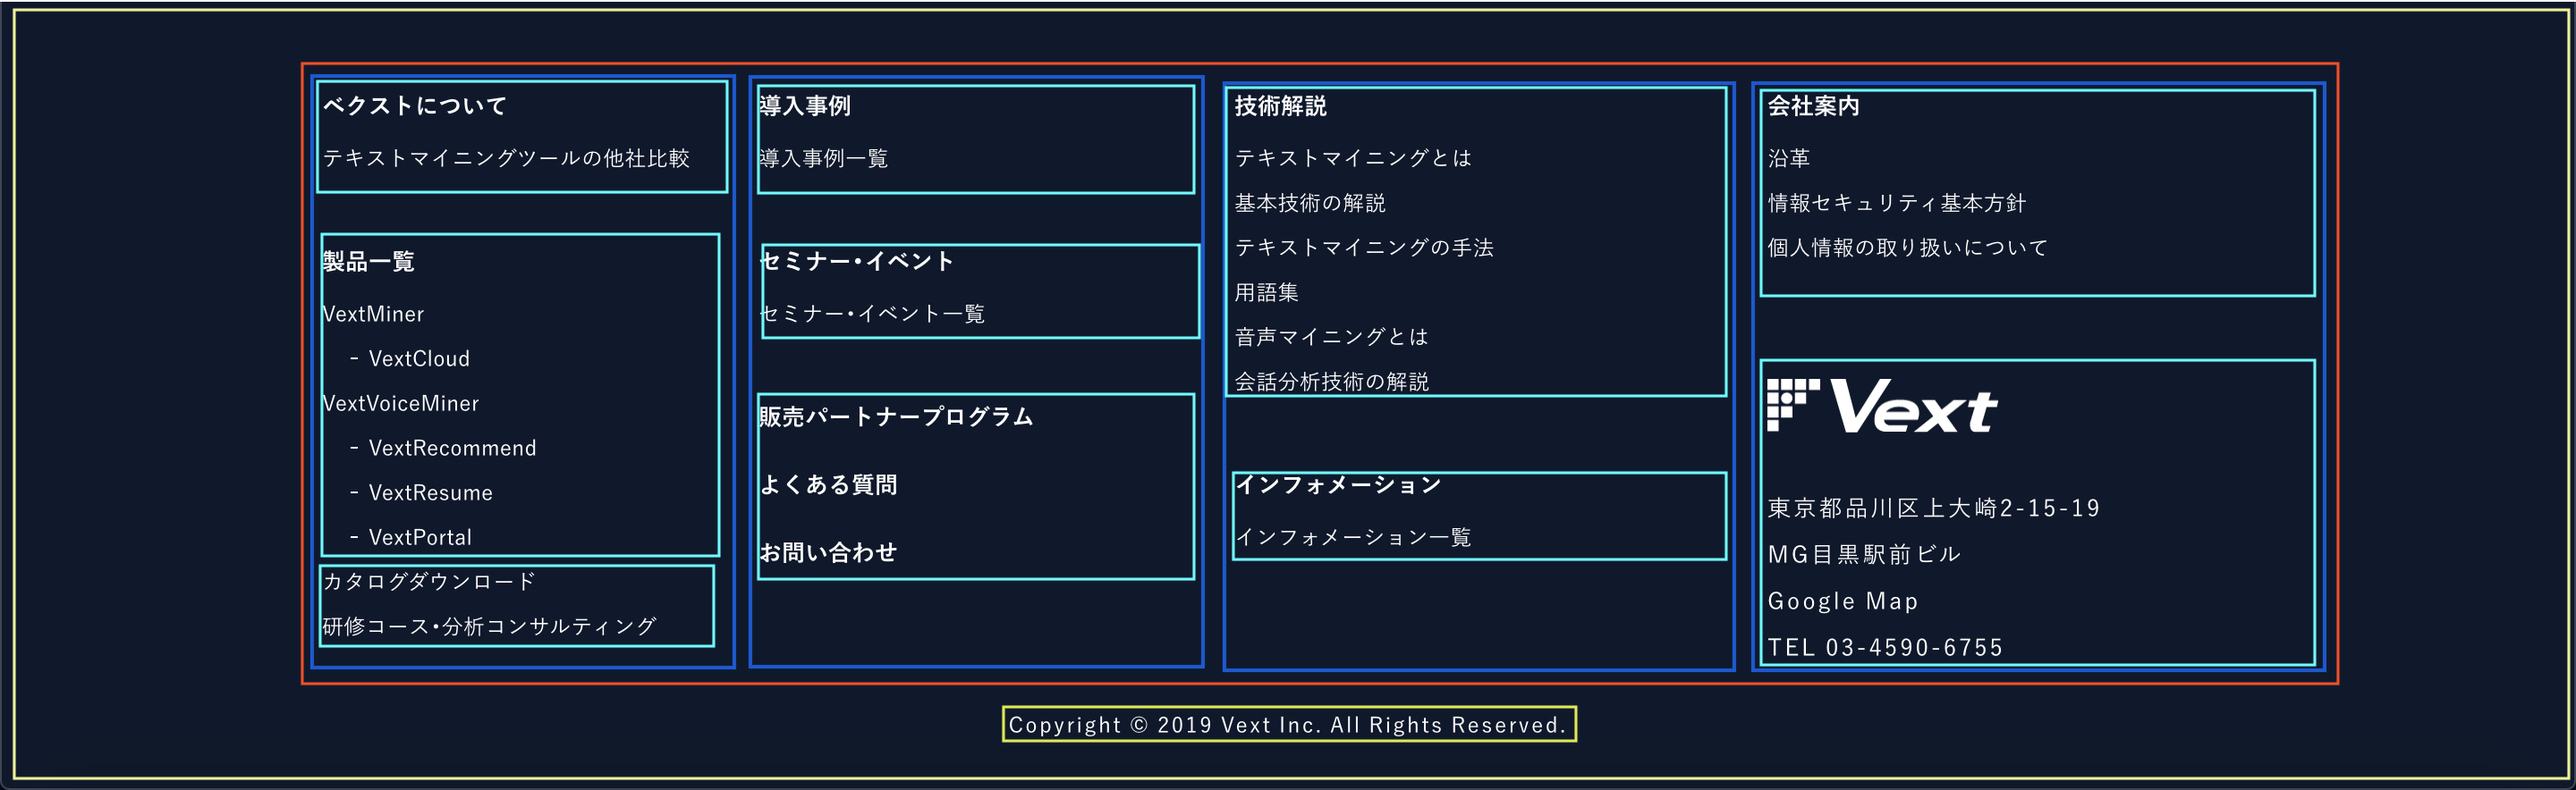
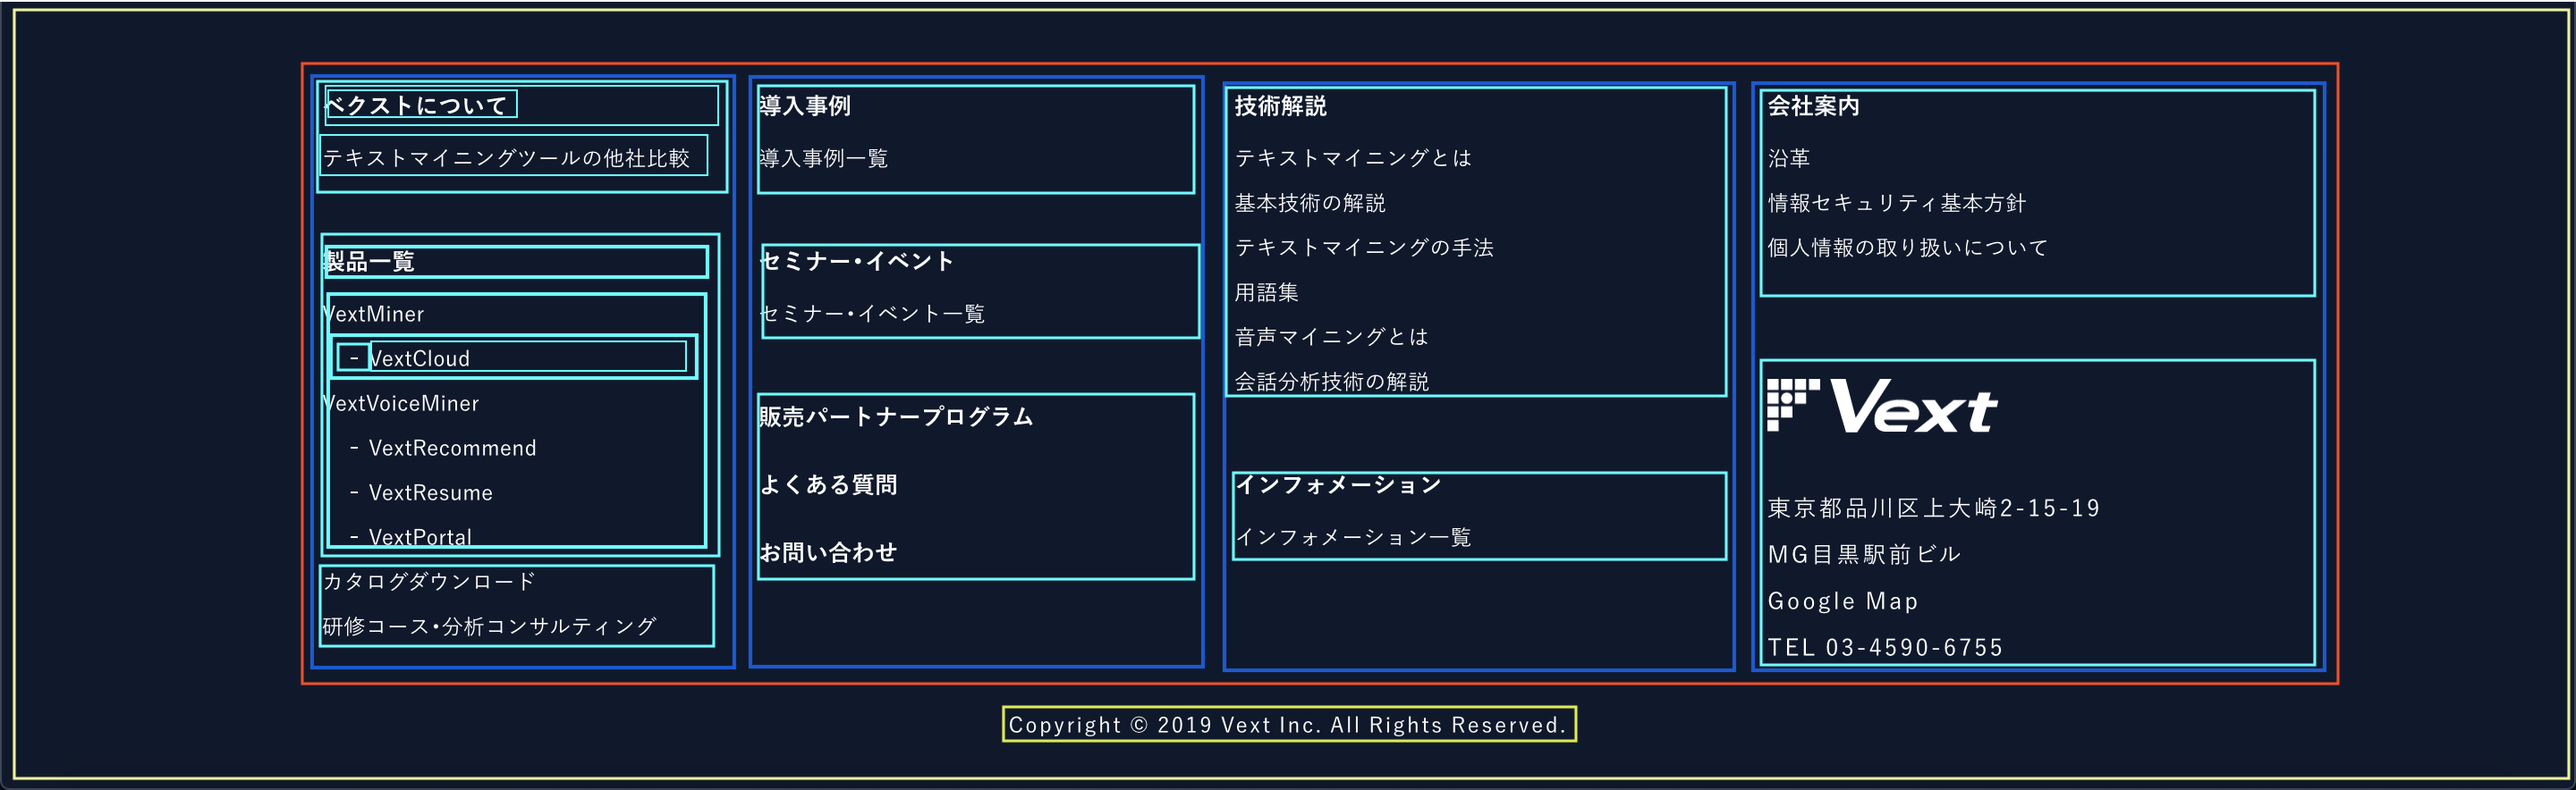
[update] update layout practice

Changed region(s): [[0.125, 0.3054, 0.2812, 0.4887], [0.125, 0.0916, 0.2812, 0.1833], [0.125, 0.6719, 0.2812, 0.7025]]

diff --git a/layoutpractice/0612/style/style.css b/layoutpractice/0612/style/style.css
@@ -82,6 +82,8 @@ ol h2 {
   .footer a:link, .footer a:visited {
     text-decoration: none;
     display: block; }
+  .footer a:hover {
+    color: #fff; }
   .footer__title a:link, .footer__title a:visited {
     color: #fff; }
   .footer__content:link, .footer__content:visited {
@@ -101,6 +103,20 @@ ol h2 {
   .footer__wrap:nth-child(4) {
     flex-grow: 1;
     padding-left: 2.1%; }
+  .footer__list li.dash > a {
+    position: relative;
+    padding-left: 2.7rem; }
+    .footer__list li.dash > a::before {
+      content: '';
+      position: absolute;
+      top: 0;
+      bottom: 0;
+      left: 1.5rem;
+      width: 0;
+      height: 0;
+      margin: auto 0;
+      padding: .05rem .27rem;
+      background: #fff; }
 
 .process {
   color: #333; }
@@ -198,6 +214,21 @@ ol h2 {
   background: #f2f9fc;
   border-spacing: 1.5rem 0;
   table-layout: fixed; }
+  .price__title-primary {
+    padding: 3rem 2.7rem;
+    color: #fff;
+    font-size: 1.8rem;
+    background: #82c7e9;
+    max-width: 825px;
+    margin: 0 auto;
+    font-weight: bold; }
+    .price__title-primary > span:first-child {
+      letter-spacing: 2.1px; }
+    .price__title-primary > span:last-child {
+      float: right;
+      font-size: 1.4rem;
+      padding: .3rem 0;
+      font-weight: normal; }
   .price th {
     border-bottom: 1px solid #82c7e9; }
   .price thead {

diff --git a/layoutpractice/0612/0612.html b/layoutpractice/0612/0612.html
@@ -139,6 +139,10 @@
     <div class="section section--table">
         <h2 style="font-size: 3.6rem; text-align: center;margin-bottom: 1.5rem;">Table <a href="https://marimo-dental.com/price/">參考網站</a></h2>
         <div class="template" style="max-width: 879px; margin: 0 auto;margin-bottom: 2.4rem;"><img src="./img/table.png" alt="table LAYOUT" style="width: 100%;vertical-align: middle;"></div>
+        <h1 class="price__title-primary">
+            <span>矯正治療</span>
+            <span>※価格は全て税抜表示です</span>
+        </h1>
         <table class="price">
             <thead>
                 <tr>
@@ -153,7 +157,7 @@
                     <td>
                         <table class="price-inner">
                             <tr>
-                                <td colspan="2" class="title"><h4 class="title">子どもの矯正治療（乳歯列、混合歯列期）</h4></td>
+                                <td colspan="2" class="title border-none"><h4 class="title">子どもの矯正治療（乳歯列、混合歯列期）</h4></td>
                             </tr>
                             <tr>
                                 <td>

diff --git a/layoutpractice/0612/scss/component/_flex.scss b/layoutpractice/0612/scss/component/_flex.scss
@@ -8,6 +8,9 @@
             text-decoration: none;
             display: block;
         }
+        &:hover {
+            color: #fff;
+        }
     }
     
     &__title {
@@ -57,7 +60,21 @@
 
     &__list {
         li {
-
+            &.dash {
+                > a {
+                    position: relative;
+                    padding-left: 2.7rem;
+                    &::before {
+                        content: '';
+                        position: absolute; top: 0; bottom: 0; left: 1.5rem;
+                        width: 0;
+                        height: 0;
+                        margin: auto 0;
+                        padding: .05rem .27rem;
+                        background: #fff;
+                    }
+                }
+            }
         }
     }
 

diff --git a/layoutpractice/0612/scss/component/_table.scss b/layoutpractice/0612/scss/component/_table.scss
@@ -11,6 +11,28 @@
     border-spacing: 1.5rem 0;
     table-layout: fixed;
 
+
+    &__title-primary {
+        padding: 3rem 2.7rem;
+        color: #fff;
+        font-size: 1.8rem;
+        background: #82c7e9;
+        max-width: 825px;
+        margin: 0 auto;
+        font-weight: bold;
+
+        > span:first-child {
+            letter-spacing: 2.1px;
+        }
+
+        > span:last-child {
+            float: right;
+            font-size: 1.4rem;
+            padding: .3rem 0;
+            font-weight: normal;
+        }
+    }
+
     th{
         // padding-bottom: 1.4rem;
         border-bottom: 1px solid #82c7e9;
